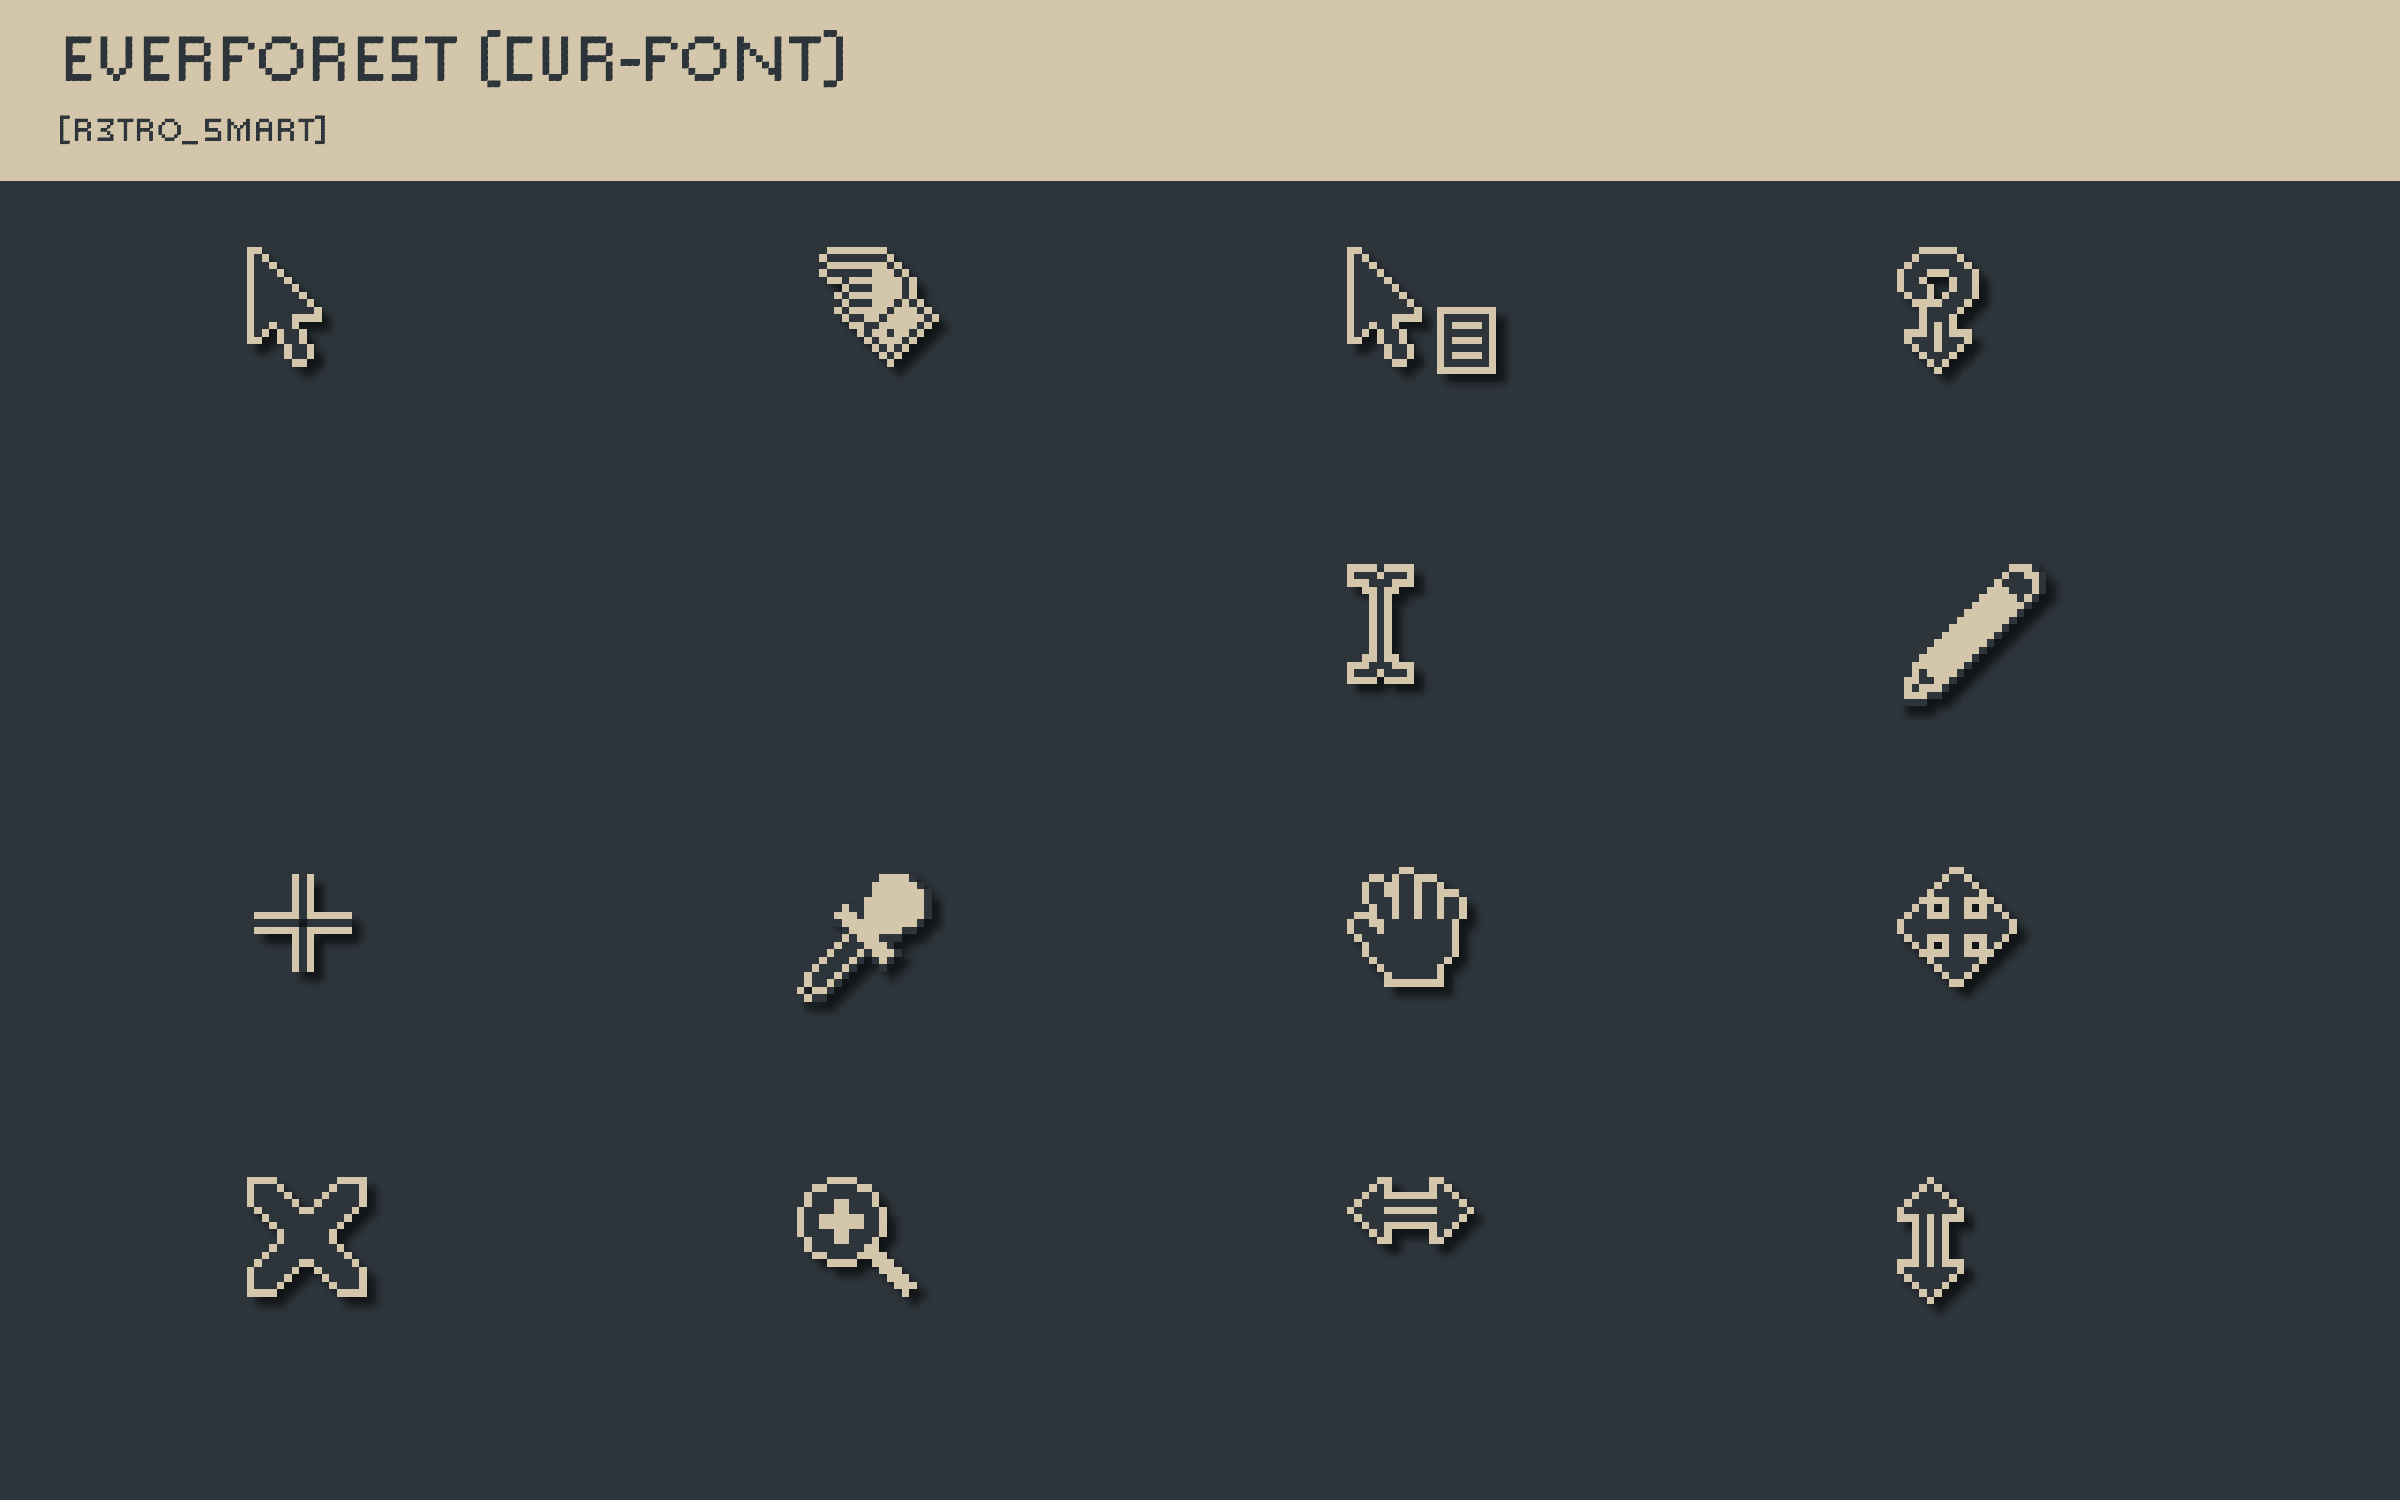
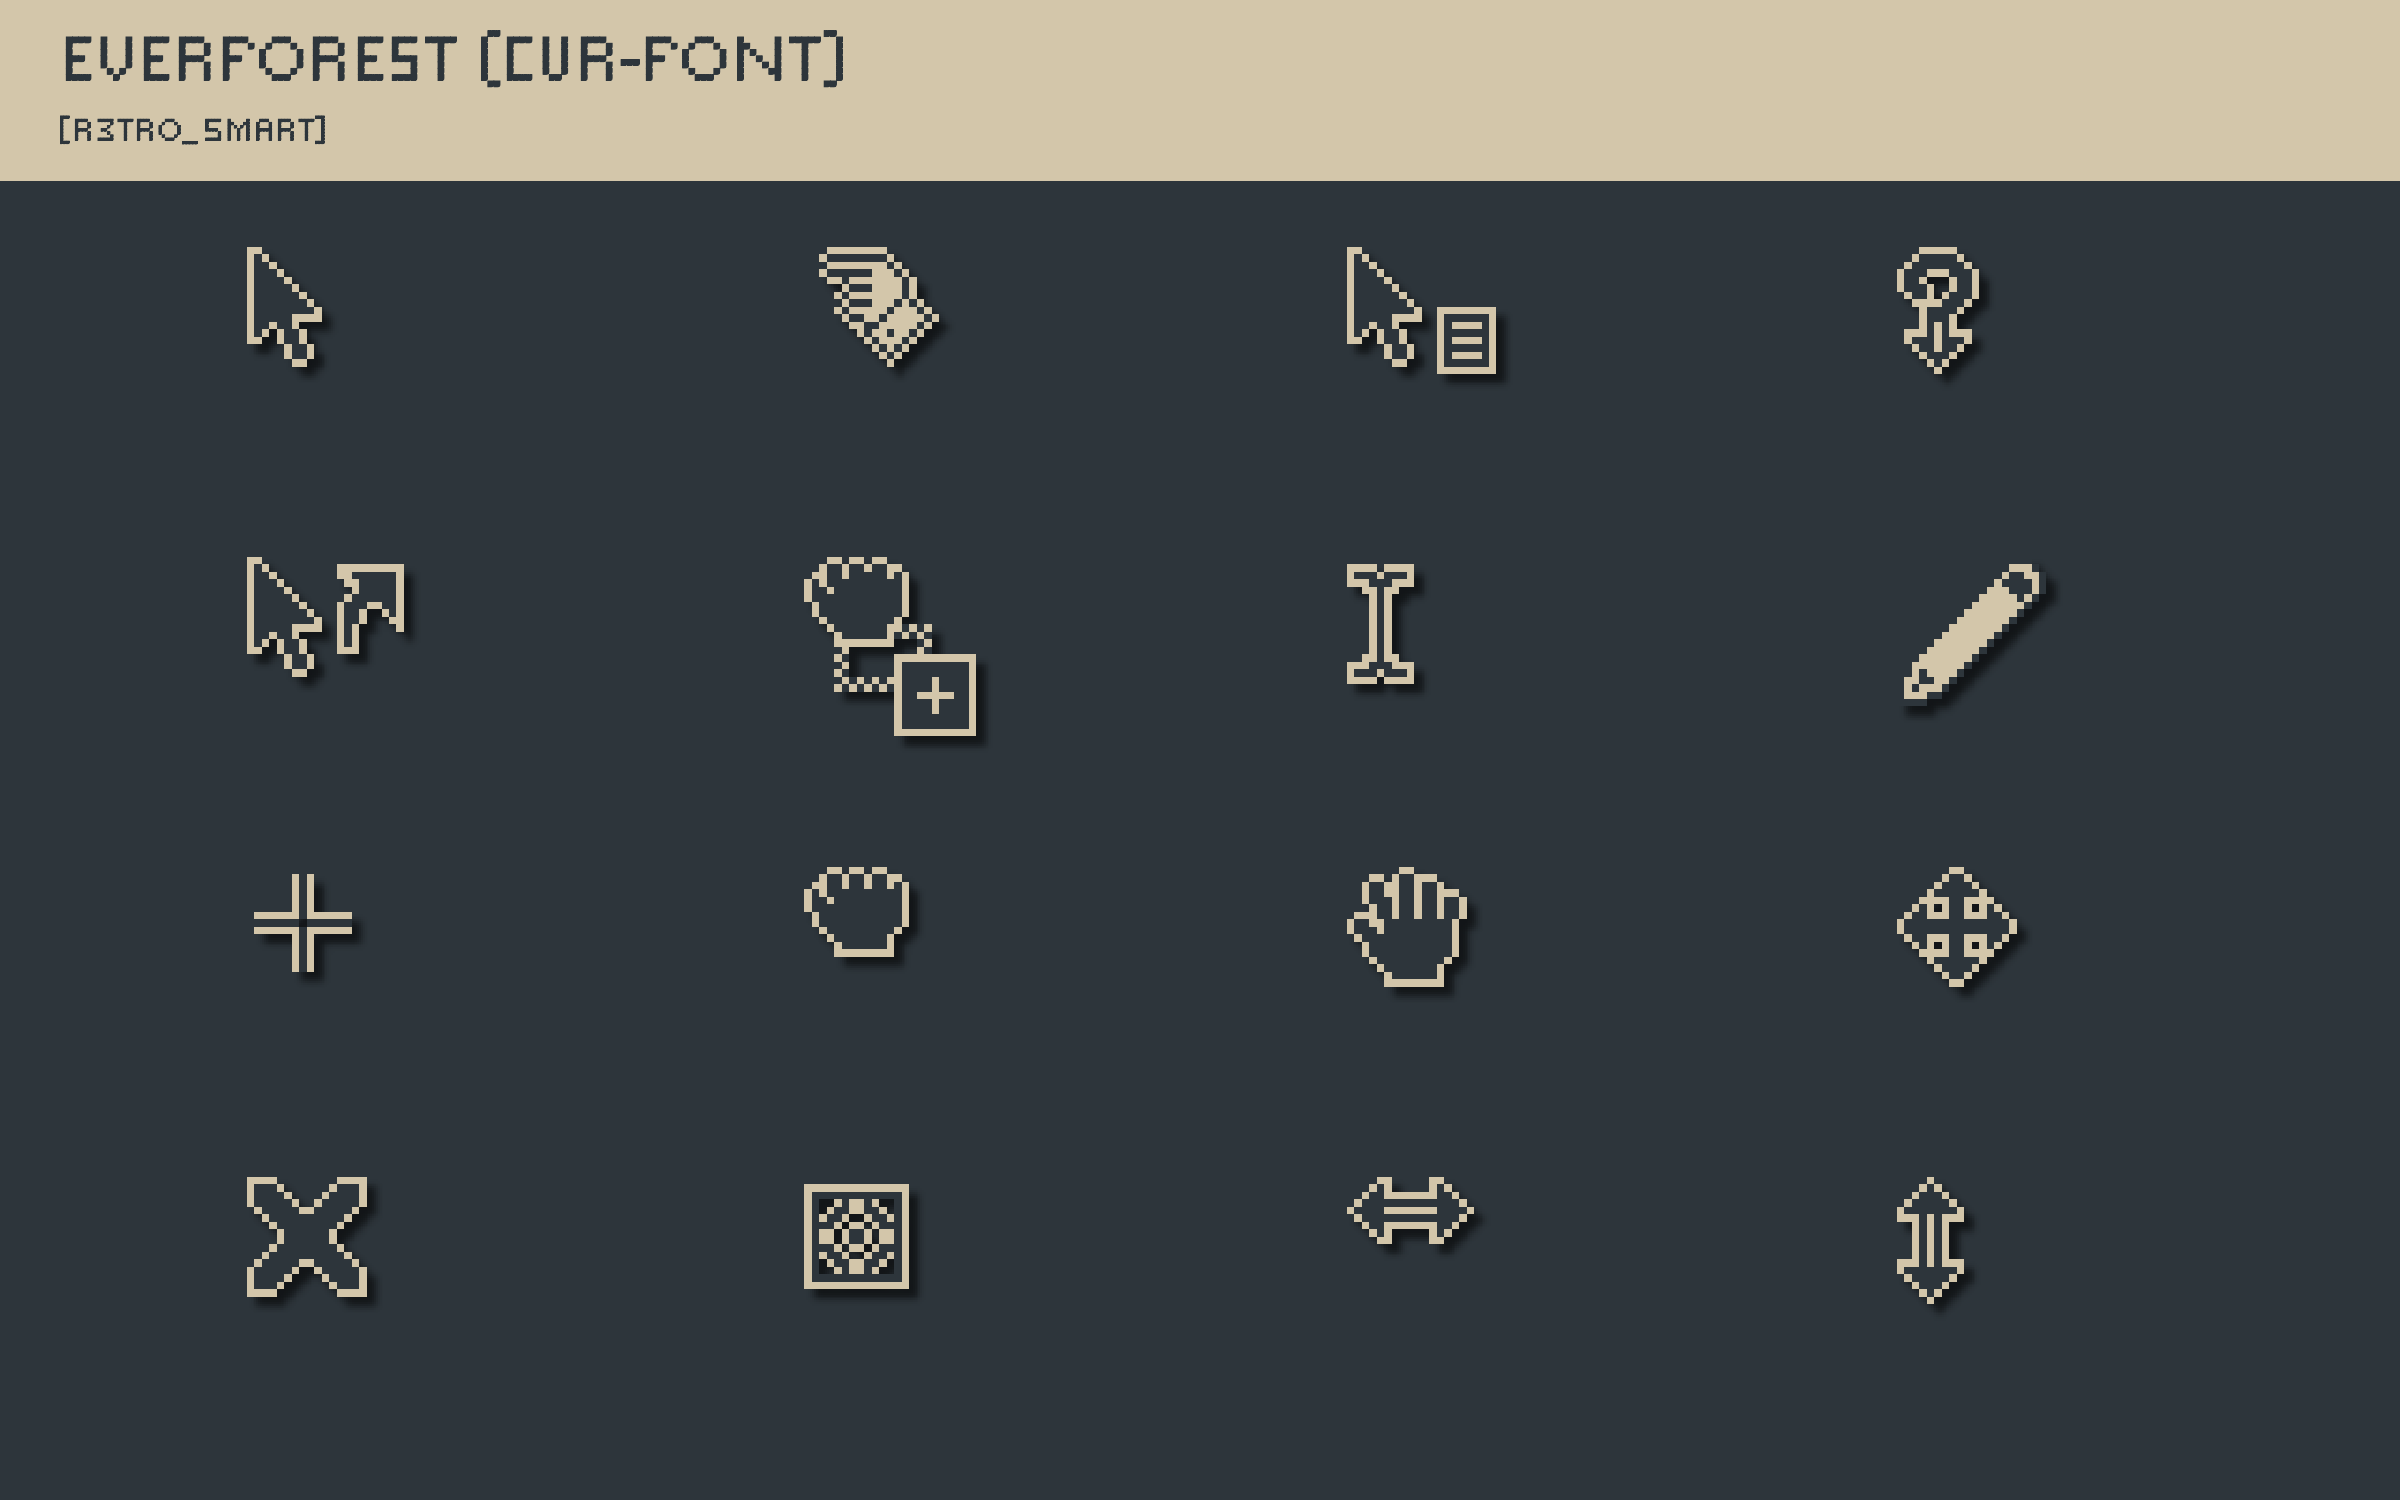
Fixes to the preview images and some fixes to the README file

diff --git a/README.md b/README.md
@@ -11,11 +11,11 @@ original artwork and design goes to him — see [AUTHORS](AUTHORS) and
 
 ## What's new in this fork
 
-- **Multiple Cursor Styles**: Includes both `mac-ish` and `win-ish` cursor styles (`src/base/`).
+- **Multiple Cursor Styles**: Includes `mac-ish`, `win-ish`, and `cur-font` cursor styles (`src/base/`).
 - **HiDPI Support**: New sizes (32px, 64px, and 128px), rendered cleanly via nearest-neighbor scaling.
 - **Unified Color Schemes**: Master configuration in `schemes.yaml` using clean `outline` and `fill` color fields.
 - **Streamlined Multi-Core Build**: In-memory streaming directly to PNGs (no intermediate XPM files on disk) with parallel CPU execution (`nproc`).
-- **Theme Variants**: 14 distinct color schemes, each with plain and drop-shadow versions.
+- **Theme Variants**: 24 distinct theme variants (8 color schemes across 3 styles), each with plain and drop-shadow versions.
 
 Some of this fork's tooling and docs were put together with AI assistance.
 The cursor artwork itself is hand-drawn/hand-edited pixel art.
@@ -45,6 +45,7 @@ Grab both archives for your OS if you want everything.
 ![Mac-ish Gruvbox](media/mac-ish-gruvbox.png)
 ![Mac-ish Rose Pine](media/mac-ish-rose_pine.png)
 ![Mac-ish Solarized Dark](media/mac-ish-solarized_dark.png)
+![Mac-ish Violet](media/mac-ish-violet.png)
 
 ### Win-ish Styles
 
@@ -55,6 +56,7 @@ Grab both archives for your OS if you want everything.
 ![Win-ish Gruvbox](media/win-ish-gruvbox.png)
 ![Win-ish Rose Pine](media/win-ish-rose_pine.png)
 ![Win-ish Solarized Dark](media/win-ish-solarized_dark.png)
+![Win-ish Violet](media/win-ish-violet.png)
 
 ### Cur-font Styles
 
